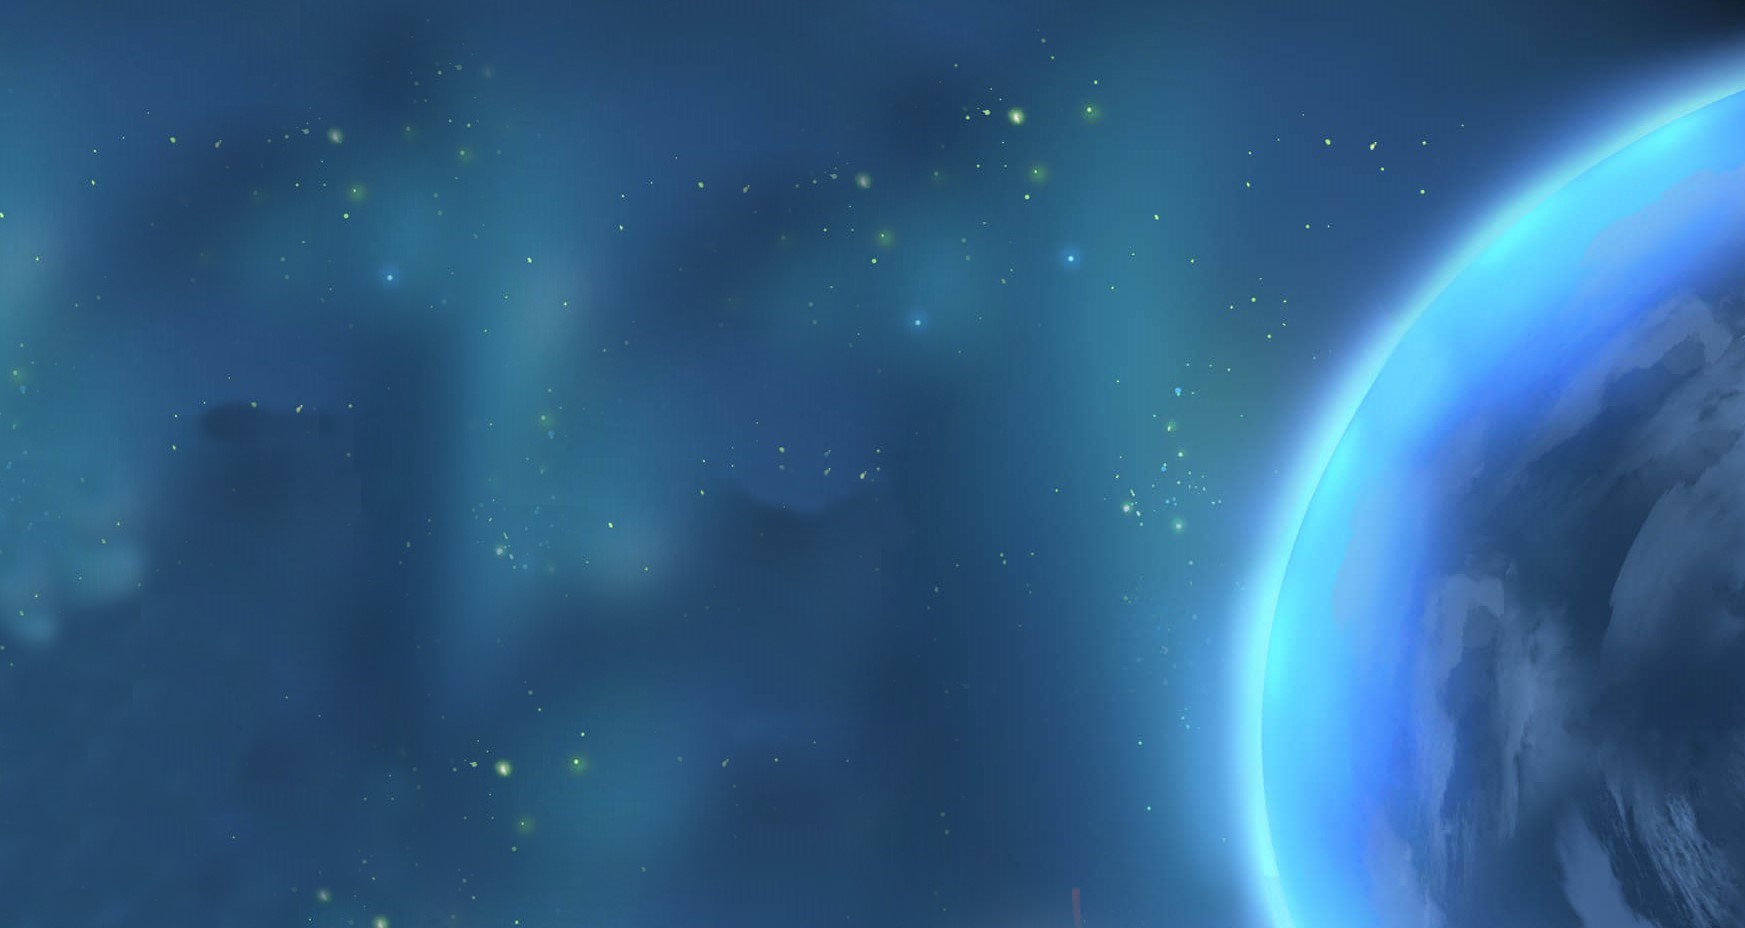
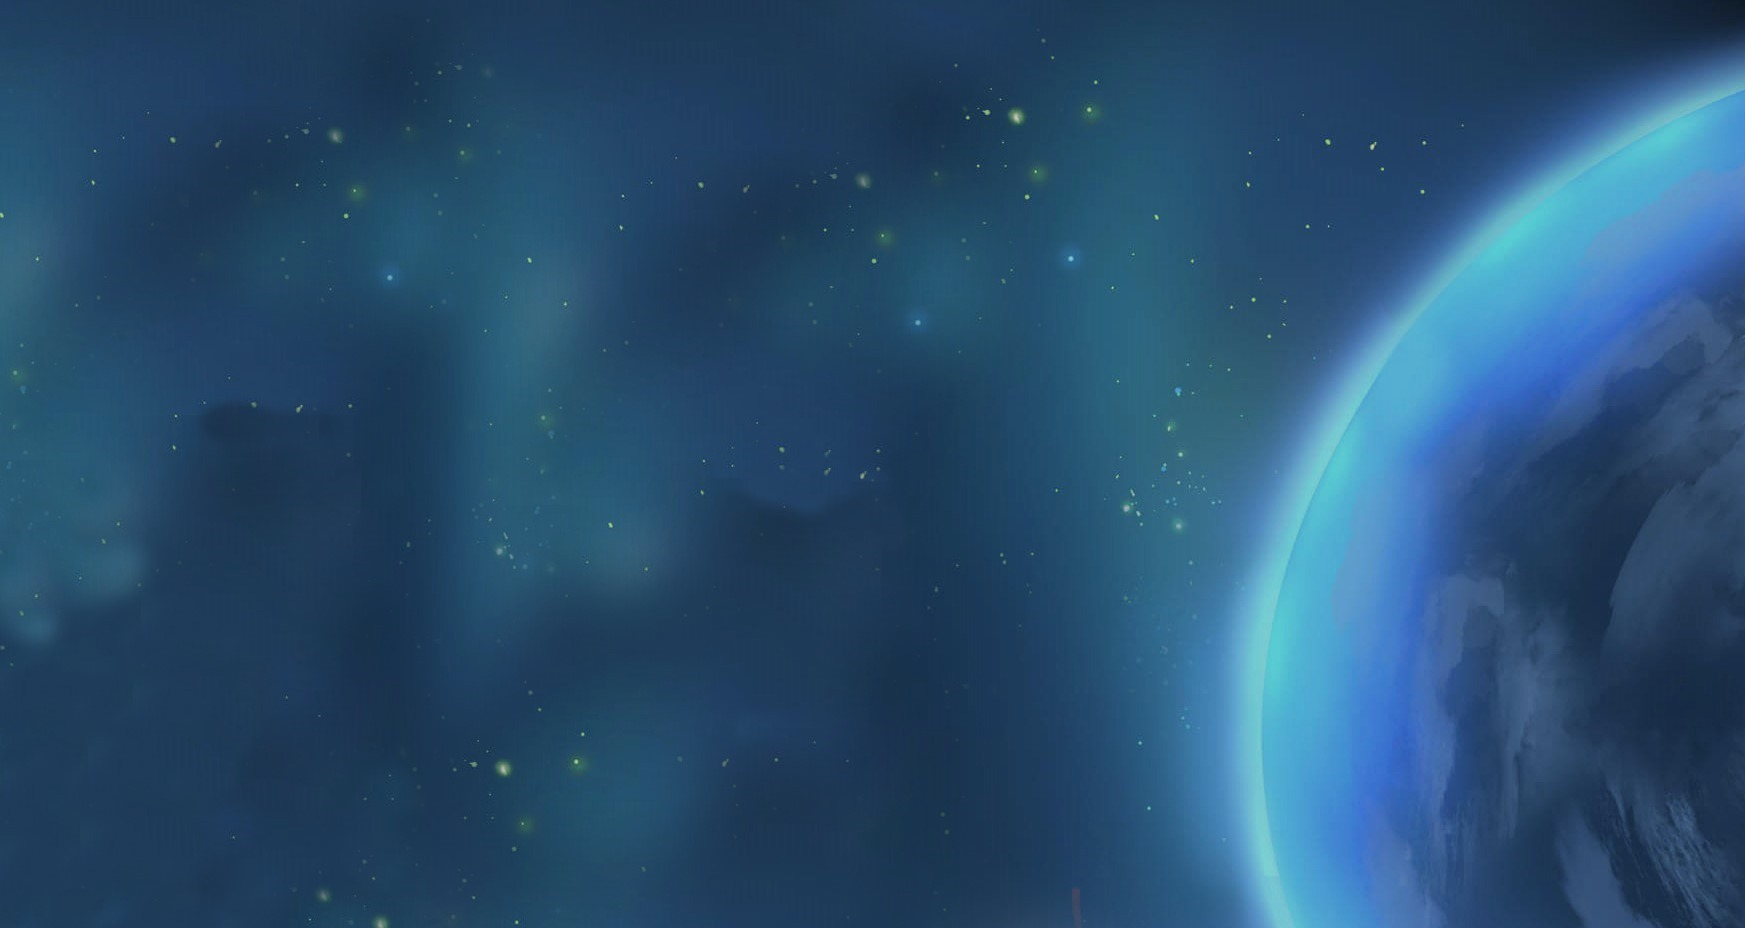
background and hosting

diff --git a/javascript/game.js b/javascript/game.js
@@ -14,7 +14,10 @@ export default class Game {
     this.height = height;
     this.level = level;
 
-    this.bg = getImage("background.jpg");
+    this.bg =
+      this.level === 3
+        ? getImage("background-2.jpg")
+        : getImage("background.jpg");
 
     //bullet Type (1-5)
     this.bulletType = 1;

diff --git a/javascript/main.js b/javascript/main.js
@@ -70,7 +70,6 @@ playButton.onclick = (e) => {
 //in loop of DOM elements
 function startCountOfAll() {
   startCountInterval = setInterval(() => {
-    console.log(levelClicked);
     let gameObj = gameStates[levelClicked];
     if (gameObj.won) {
       console.log("You are the winner");
